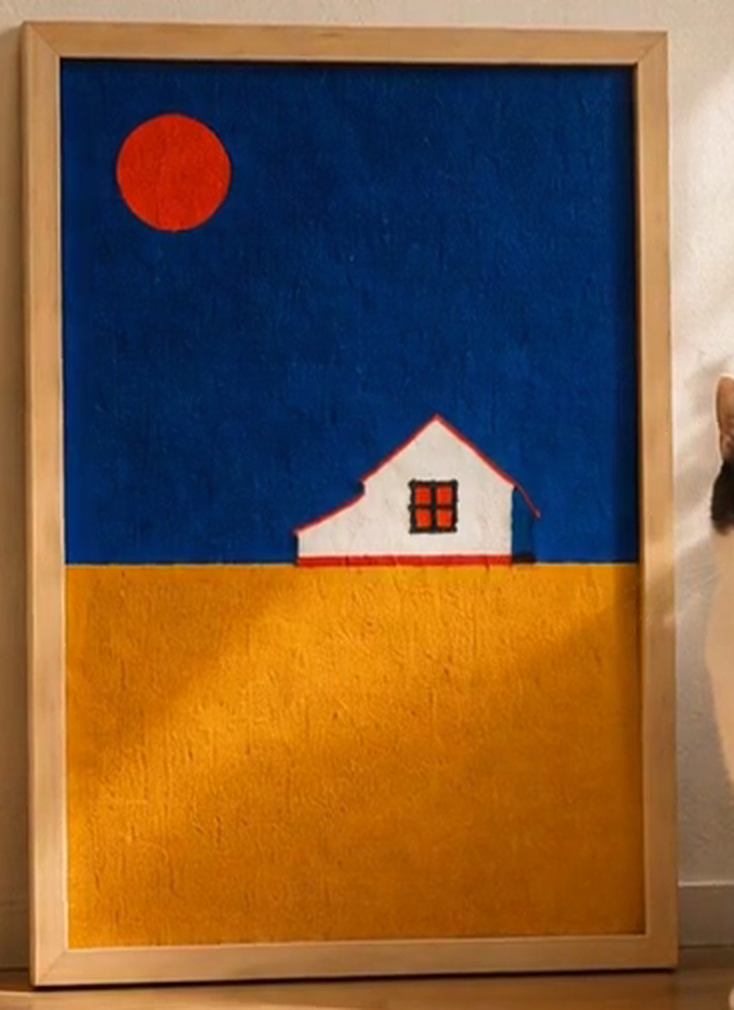
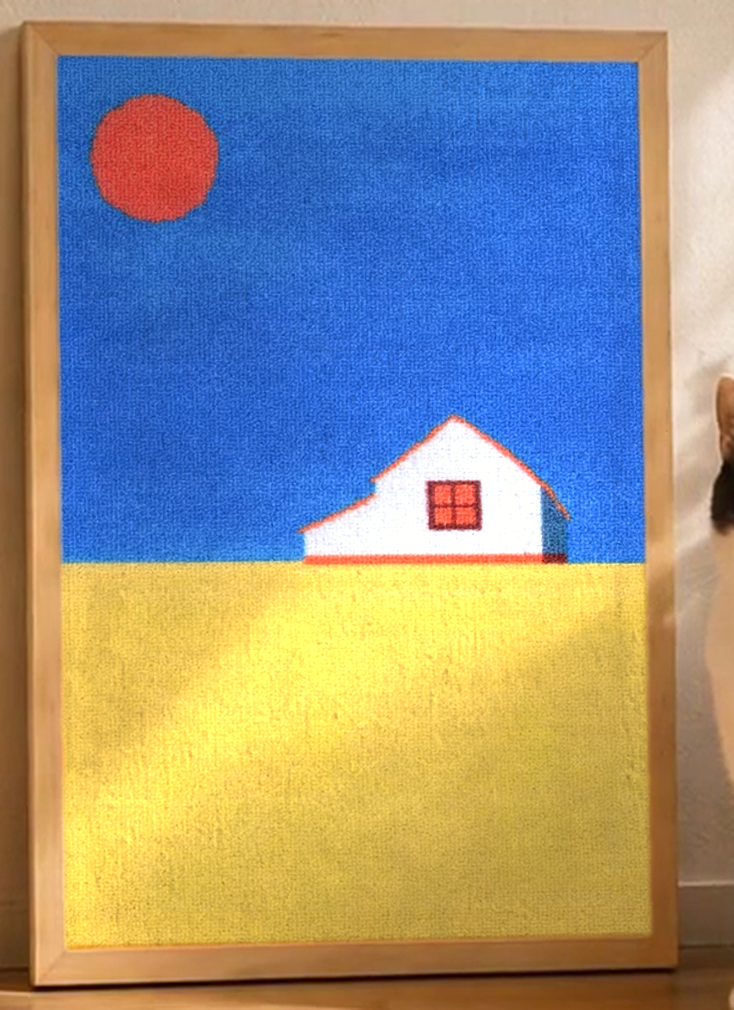
Dissolve the true-colour artwork over the frozen hero frame
The video's final frame renders Sunny Field in the film's warm grade,
noticeably different from the real print, so the first swap used to
jump in tone. art-01 is no longer a raw video crop: it now goes through
the same composite pipeline as the other five (real flat, perspective
warp, baked window light and grain, decode calibration). The frame
overlay fades in over 1.2s (240ms after freeze), so the colour settles
like the light changing instead of a cut.

Verified: freeze/mid/settled frames captured, plaque cycling and return
to № 01 consistent, mobile static mode clean, geometry unchanged
(frame-rect identical, art-02..06 byte-identical).

diff --git a/components/Hero/ArtworkSwitcher.module.css b/components/Hero/ArtworkSwitcher.module.css
@@ -8,10 +8,12 @@
   overflow: hidden;
   z-index: 4;
   pointer-events: none;
-  /* 关键 1：视频播放期间整层隐身（画作会遮住走到画前的猫），
-     定格瞬间才现身 —— art-01 与末帧像素一致，切换不可察觉。
+  /* 关键 1：视频播放期间整层隐身（画作会遮住走到画前的猫）。
+     art-01 也是真画合成（视频帧色调 ≠ 实物），定格后用一段慢溶解
+     把真色画作盖上去 —— 突变会跳，溶解读作「光线定下来」。
      用 opacity 而非 display，保证图片提前解码。 */
   opacity: 0;
+  transition: opacity 1200ms var(--ease-out) 240ms;
   /* 关键 2：羽化蒙版裁掉画布之外的一切 —— 木框与墙面由活视频
      原生呈现，覆盖图的矩形外沿不可能产生接缝色差。 */
   -webkit-mask-image: url("/hero/art/frame-mask.png");

diff --git a/tools/make_artworks.py b/tools/make_artworks.py
@@ -121,7 +121,8 @@ im = np.asarray(base).astype(float)
 matte = matte_full[Y0:Y1, X0:X1]
 Image.fromarray((matte * 255).astype(np.uint8)).save(SP + '/matte_raw.png')
 
-# art-01 = 原样裁剪（校色后；2x 版本在光照/纹理计算后输出）
+# 注：art-01 不再输出视频裁剪版（2026-07-13 起与 02–06 同走真画合成，
+# 视频帧色调 ≠ 实物，定格后由前端 1.2s 溶解盖上真色画作）
 
 # ---------------- 3. 变形目标四边形：蒙版边缘拟合 + 向外过扫 ----------------
 rowsL, rowsR, colsT, colsB = [], [], [], []
@@ -394,9 +395,6 @@ coeffs2 = find_coeffs(quad2,
                       [(0, 0), (FA_W, 0), (FA_W, FA_H), (0, FA_H)])
 lightmap2 = up_field(lightmap)
 grain2 = up_field(grain)
-# art-01 = 2x 裁剪（浏览器缩放行为与视频一致，定格交接依旧无缝）
-Image.fromarray(np.clip(im2 + CALIB, 0, 255).astype(np.uint8)).save(OUT + '/art-01.png')
-
 def composite(flat_img, name):
     warped = flat_img.transform((BW2, BH2), Image.PERSPECTIVE, coeffs2, Image.BICUBIC)
     wa = np.asarray(warped).astype(float)
@@ -408,11 +406,12 @@ def composite(flat_img, name):
 
 # ---------------- 6. 真实画作平面稿 → 合成 ----------------
 # 平面稿由 tools/extract_flats.py 从供应商产品图提取（1400×2000 = FA_W×FA_H）。
-# art-01（晴野）= 视频末帧原样裁剪（上方已输出）；02–06 走透视+光照+纹理合成。
+# 全部 6 张（含 art-01 晴野）走透视+光照+纹理合成 —— 视频帧色调与实物
+# 有偏差，定格后前端用溶解把真色画作盖上（用户反馈 2026-07-13）。
 # 注：平面稿自带真实圈绒纹理，视频烘焙的 grain 叠加系数在 composite 内为 0.85，
 # 若观感过密可在此处对 flat 轻微高斯（0.6）预柔化。
 FLAT_DIR = ROOT / 'public' / 'hero' / 'art'
-for _i in range(2, 7):
+for _i in range(1, 7):
     _flat = Image.open(str(FLAT_DIR / f'flat-0{_i}.png')).convert('RGB')
     if _flat.size != (FA_W, FA_H):
         _flat = _flat.resize((FA_W, FA_H), Image.LANCZOS)
